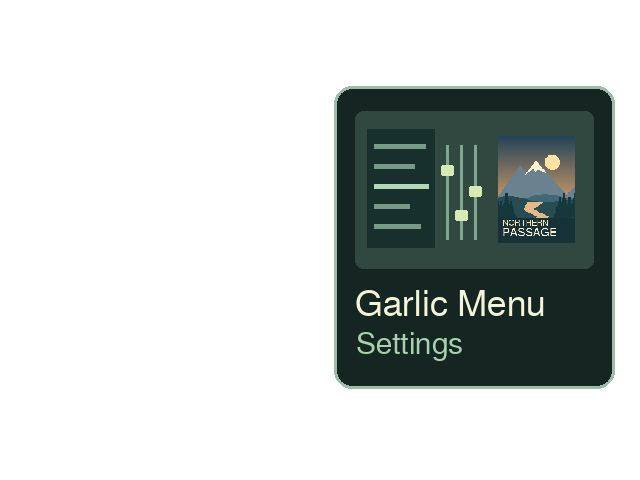
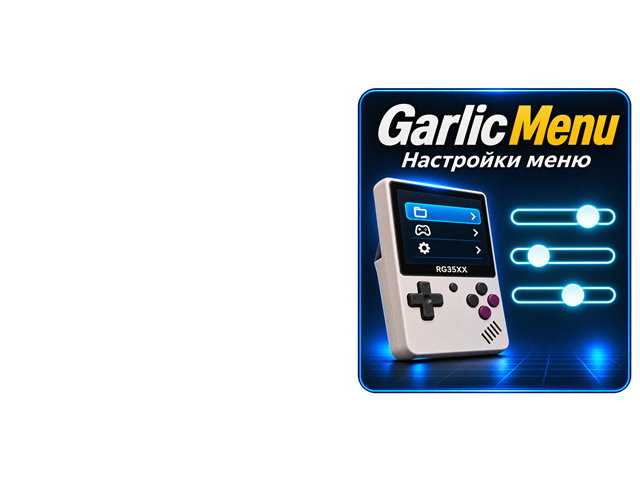
Release Garlic Menu Settings v1.0.1 with contextual controls and matching APPS artwork

Changed region(s): [[0.5, 0.1562, 1.0, 0.8438]]

diff --git a/Garlic-Menu-Settings/src/main.c b/Garlic-Menu-Settings/src/main.c
@@ -9,7 +9,8 @@
 #include <unistd.h>
 
 enum { BG=0x182321, PANEL=0x24332f, EDGE=0x4b635a, INK=0xf4f6ec,
-       MUTED=0xb2c6b8, GREEN=0xaee3a8, SELECTED=0x325548, AMBER=0xf1c584 };
+       MUTED=0xb2c6b8, DIM=0x86948c, GREEN=0xaee3a8, SELECTED=0x325548, AMBER=0xf1c584 };
+enum { ALIGN_ROW, MARGIN_ROW, WIDTH_ROW, SCROLL_ROW, COVER_ROW, SIDE_ROW, RESTORE_ROW, ROW_COUNT };
 typedef enum { INTRO, INSTALLED, EDIT, FULL, CONFIRM, RESTORED, ERROR_PAGE, REPAIR } Page;
 static SDL_Surface *screen;
 static TTF_Font *title,*font,*small;
@@ -43,7 +44,7 @@ static void wrapped(int y,const char *text) {
 }
 static void page_header(const char *text) {
     box(0,0,640,480,BG); box(0,53,640,1,EDGE);
-    label(18,10,title,INK,text); label(566,19,small,GREEN,"v1.0");
+    label(18,10,title,INK,text); label(566,19,small,GREEN,"v1.0.1");
 }
 static void button(int x,int w,const char *s,int on) {
     box(x,410,w,46,on ? GREEN : PANEL);
@@ -86,19 +87,32 @@ static void modal(Page page,int yes,const char *err) {
 static const char *align_name(Alignment a) {
     return a==LEFT ? "Слева" : a==RIGHT ? "Справа" : "Центр";
 }
+static int clipping_enabled(Settings s) {
+    return s.width>0 && s.align==LEFT;
+}
+static int can_scroll(Settings s,int cover) {
+    return clipping_enabled(s) && cover;
+}
+static int next_row(int row,int step,Settings s,int cover) {
+    int next=(row+step+ROW_COUNT)%ROW_COUNT;
+    if (next==SCROLL_ROW && !can_scroll(s,cover)) next+=step;
+    return next;
+}
 static void editor(Settings s,int cover,int right,int row,unsigned *start) {
     const char *names[]={"Выравнивание","Отступ","Макс. ширина","Прокрутка","Обложка","Положение","Восстановить из копий"};
     char margin[24],width[24],timing[96];
     snprintf(margin,sizeof margin,"%d px",s.margin);
     if (s.width) snprintf(width,sizeof width,"%d px",s.width); else strcpy(width,"Без обрезки");
-    const char *values[]={align_name(s.align),margin,width,s.scroll?"Вкл":"Выкл",cover?"Вкл":"Выкл",right?"Справа":"Слева",""};
+    int scrolling=can_scroll(s,cover);
+    const char *values[]={align_name(s.align),margin,width,scrolling && s.scroll?"Вкл":"Выкл",cover?"Вкл":"Выкл",right?"Справа":"Слева",""};
     page_header("Настройки меню");
-    for (int i=0;i<7;i++) {
+    for (int i=0;i<ROW_COUNT;i++) {
         int y=65+i*46;
+        int disabled=i==SCROLL_ROW && !scrolling;
         if (i==row) { box(12,y,290,41,SELECTED); box(12,y,3,41,GREEN); }
-        label(21,y+10,small,i==6 ? AMBER : INK,names[i]);
+        label(21,y+10,small,disabled ? DIM : i==RESTORE_ROW ? AMBER : INK,names[i]);
         int w,h;
-        if (*values[i] && !TTF_SizeUTF8(small,values[i],&w,&h)) label(292-w,y+10,small,GREEN,values[i]);
+        if (*values[i] && !TTF_SizeUTF8(small,values[i],&w,&h)) label(292-w,y+10,small,disabled ? DIM : GREEN,values[i]);
     }
     label(318,69,small,MUTED,"Предпросмотр"); box(316,97,308,232,EDGE);
     preview_draw(screen,s,cover,right,0,start);
@@ -108,23 +122,25 @@ static void editor(Settings s,int cover,int right,int row,unsigned *start) {
     label(318,367,small,MUTED,timing);
     box(0,403,640,1,EDGE);
     label(18,413,small,INK,"↑↓ Выбор     ← → Значение     L1 / R1  ±10 px");
-    label(18,446,small,GREEN,"A  Сохранить       B  Выйти       X  Сброс       Y  Превью");
+    label(18,446,small,row==RESTORE_ROW ? AMBER : GREEN,
+          row==RESTORE_ROW ? "A  Восстановить…" : "A  Сохранить");
+    label(191,446,small,GREEN,"B  Выйти       X  Сброс       Y  Превью");
 }
 static int clamp(int n,int lo,int hi) { return n<lo ? lo : n>hi ? hi : n; }
 static void adjust(Settings *s,int *cover,int *right,int row,int dir,int fast) {
-    if (fast && row!=1 && row!=2) return;
+    if (fast && row!=MARGIN_ROW && row!=WIDTH_ROW) return;
     int step=dir*(fast?10:1);
     switch (row) {
-    case 0: {
+    case ALIGN_ROW: {
         const Alignment order[]={LEFT,CENTER,RIGHT};
         int i=s->align==LEFT?0:s->align==CENTER?1:2;
         s->align=order[(i+dir+3)%3]; break;
     }
-    case 1: s->margin=clamp(s->margin+step,0,320); break;
-    case 2: s->width=clamp(s->width+step,0,640); break;
-    case 3: s->scroll=!s->scroll; break;
-    case 4: *cover=!*cover; break;
-    case 5: *right=!*right; break;
+    case MARGIN_ROW: s->margin=clamp(s->margin+step,0,320); break;
+    case WIDTH_ROW: s->width=clamp(s->width+step,0,640); break;
+    case SCROLL_ROW: if (can_scroll(*s,*cover)) s->scroll=!s->scroll; break;
+    case COVER_ROW: *cover=!*cover; break;
+    case SIDE_ROW: *right=!*right; break;
     }
 }
 static SDLKey getkey(void) {
@@ -208,7 +224,7 @@ int main(void) {
         if (k==SDLK_UNKNOWN) { SDL_Delay(page==EDIT || page==FULL ? 32 : 50); continue; }
         if (page==EDIT) {
             int dir=(k==SDLK_LEFT || k==SDLK_PAGEUP) ? -1 : 1;
-            if (k==SDLK_UP || k==SDLK_DOWN) row=(row+(k==SDLK_UP?6:1))%7;
+            if (k==SDLK_UP || k==SDLK_DOWN) row=next_row(row,k==SDLK_UP ? -1 : 1,s,cover);
             else if (k==SDLK_LEFT || k==SDLK_RIGHT || k==SDLK_PAGEUP || k==SDLK_PAGEDOWN) {
                 adjust(&s,&cover,&right,row,dir,k==SDLK_PAGEUP || k==SDLK_PAGEDOWN); start=SDL_GetTicks();
             } else if (k==SDLK_x) {
@@ -216,8 +232,12 @@ int main(void) {
                 start=SDL_GetTicks();
             } else if (k==SDLK_y) page=FULL;
             else if (k==SDLK_ESCAPE) stop=1;
-            else if (k==SDLK_RETURN && row==6) { page=CONFIRM; yes=0; }
-            else if (k==SDLK_RETURN) { if (save(&s,version)) stop=1; else page=ERROR_PAGE; }
+            else if (k==SDLK_RETURN && row==RESTORE_ROW) { page=CONFIRM; yes=0; }
+            else if (k==SDLK_RETURN) {
+                /* Cover visibility is only a preview option. */
+                if (!clipping_enabled(s)) s.scroll=0;
+                if (save(&s,version)) stop=1; else page=ERROR_PAGE;
+            }
         } else if (page==FULL) {
             if (k==SDLK_ESCAPE || k==SDLK_y) page=EDIT;
         } else if (k==SDLK_RIGHT || k==SDLK_LEFT) yes=!yes;

diff --git a/Garlic-Menu-Settings/tests/ui.py b/Garlic-Menu-Settings/tests/ui.py
@@ -8,6 +8,13 @@ p.add_argument("qemu"); p.add_argument("sysroot")
 p.add_argument("--frames",type=Path)
 a=p.parse_args()
 project=Path(__file__).resolve().parents[1]
+
+def region(path,x,y,w,h):
+    bmp=path.read_bytes()
+    offset=struct.unpack_from("<I",bmp,10)[0]
+    assert struct.unpack_from("<H",bmp,28)[0]==24
+    return b"".join(bmp[offset+((479-r)*640+x)*3:offset+((479-r)*640+x+w)*3] for r in range(y,y+h))
+
 original=(a.stock/"main").read_bytes(); config=(a.stock/"settings.json").read_bytes()
 with tempfile.TemporaryDirectory(prefix="gms-ui-") as tmp:
     tmp=Path(tmp)
@@ -17,7 +24,9 @@ with tempfile.TemporaryDirectory(prefix="gms-ui-") as tmp:
     app=tmp/"TF2"/"Roms/APPS/GarlicMenuSettings"; app.mkdir(parents=True)
     for directory in ("assets","patch"): shutil.copytree(project/directory,app/directory)
     frames=(a.frames or (tmp/"frames")).resolve()
+    cases=[]
     def run(name,keys,pages):
+        cases.append(name)
         capture=frames/name; capture.mkdir(parents=True,exist_ok=True)
         env=os.environ|{"SDL_VIDEODRIVER":"dummy","SDL_AUDIODRIVER":"dummy","GMS_KEYS":keys,
                         "GMS_FIXTURE":str(cfw),"GMS_FRAMES":str(capture)}
@@ -32,6 +41,31 @@ with tempfile.TemporaryDirectory(prefix="gms-ui-") as tmp:
     run("install","daab",[0,0,1,2])
     assert json.loads(cfg.read_bytes())["text-max-width"]==313
     baseline=cfg.read_bytes()
+    # A v1.0 config can specify width 0 and still have scroll=true.
+    legacy=json.loads(baseline)
+    legacy["text-max-width"]=0
+    cfg.write_text(json.dumps(legacy))
+    original_legacy=cfg.read_bytes()
+    zero=run("width-zero-cancel","ssswb",[2]*5)
+    assert cfg.read_bytes()==original_legacy
+    def focused(frame,row):
+        return region(frame,12,70+46*row,1,1)!=region(frame,10,70+46*row,1,1)
+    assert focused(zero[2],2) and focused(zero[3],4) and focused(zero[4],2)
+    run("width-zero-save","a",[2])
+    assert json.loads(cfg.read_bytes())["text-scroll"] is False
+    run("reenable-scroll","ssdsda",[2]*6)
+    current=json.loads(cfg.read_bytes())
+    assert current["text-max-width"]==1 and current["text-scroll"] is True
+    run("width-to-zero","ssqa",[2]*4)
+    assert json.loads(cfg.read_bytes())["text-scroll"] is False
+    run("width-reset","xa",[2,2]); assert cfg.read_bytes()==baseline
+    hidden=run("cover-only","ssssda",[2]*6)
+    assert cfg.read_bytes()==baseline
+    assert region(hidden[5],18,210,278,24)==region(zero[0],18,210,278,24)
+    alignment=run("center-right","ddb",[2]*3)
+    for f in alignment[1:]:
+        assert region(f,18,210,278,24)==region(zero[0],18,210,278,24)
+    assert region(alignment[0],18,210,278,24)!=region(zero[0],18,210,278,24)
     run("shoulders","shla",[2]*4)
     assert cfg.read_bytes()==baseline
     run("scroll-off","sssda",[2]*5)
@@ -44,14 +78,20 @@ with tempfile.TemporaryDirectory(prefix="gms-ui-") as tmp:
     assert frames2[7].read_bytes()!=frames1[1].read_bytes() # Cover on left
     run("save","dslsqsa",[2]*7)
     changed=json.loads(cfg.read_bytes())
+    assert changed["text-scroll"] is False
     assert (changed["text-alignment"],changed["text-margin"],changed["text-max-width"])==("center",26,312)
     run("cancel-reset","xb",[2,2]); assert json.loads(cfg.read_bytes())==changed
     run("reset","xa",[2,2]); assert cfg.read_bytes()==baseline
-    run("cancel-restore","ssssssab b".replace(" ",""),[2]*7+[4,2])
+    hint=run("cancel-restore","ssssssab b".replace(" ",""),[2]*7+[4,2])
+    assert region(hint[0],18,446,170,28)!=region(hint[6],18,446,170,28)
+    assert region(hint[0],191,446,449,28)==region(hint[6],191,446,449,28)
+    # SDL writes BGR. Confirm the restore action is amber.
+    ink=region(hint[6],18,446,170,28)
+    assert any(r>220 and g>155 and b<155 and r>g for b,g,r in zip(ink[::3],ink[1::3],ink[2::3]))
     assert main.read_bytes()!=original
     run("restore","ssssssadaa",[2]*7+[4,4,5])
     assert main.read_bytes()==original and cfg.read_bytes()==config
     assert not (cfw/"main.bak").exists() and not (cfw/"skin/settings.json.bak").exists()
     run("first-again","b",[0])
-    print("13 ARM SDL UI scenarios: 640x480, install OK, A/B/X/Y, L1/R1, covers, confirm/cancel and next launch passed")
+    print(f"{len(cases)} ARM SDL UI scenarios passed, including disabled scroll and the contextual restore hint")
 

diff --git a/Garlic-Menu-Settings/tests/package_smoke.py b/Garlic-Menu-Settings/tests/package_smoke.py
@@ -3,6 +3,7 @@ import argparse,json,os,subprocess,tempfile,zipfile
 from pathlib import Path
 parser=argparse.ArgumentParser()
 for key in ("archive","stock","sdk","qemu","pad"): parser.add_argument(key,type=Path)
+parser.add_argument("--upgrade-from",type=Path,help="install the patch with an earlier release ZIP first")
 a=parser.parse_args()
 sdk=a.sdk.resolve()
 sysroot=sdk/"arm-miyoo-linux-uclibcgnueabi/sysroot"
@@ -17,10 +18,13 @@ with tempfile.TemporaryDirectory(prefix="garlic-zip-") as tmp:
     m=cfw/"main"; j=cfw/"skin/settings.json"
     m.write_bytes(original); m.chmod(0o755); j.write_bytes(settings)
     card=tmp/"TF2"; app=card/"Roms/APPS/GarlicMenuSettings"
-    with zipfile.ZipFile(a.archive) as z:
-        assert z.testzip() is None
-        z.extractall(card)
-    exe=app/"garlic-menu-settings"; exe.chmod(0o755)
+    exe=app/"garlic-menu-settings"
+    def unpack(archive):
+        with zipfile.ZipFile(archive) as z:
+            assert z.testzip() is None
+            z.extractall(card)
+        exe.chmod(0o755)
+    unpack(a.upgrade_from or a.archive)
     def run(keys):
         result=subprocess.run([str(a.qemu),"-L",str(root),"-E","LD_PRELOAD="+str(a.pad.resolve()),str(exe)],
             cwd=app,env=os.environ|{"GMS_PAD":keys,"SDL_VIDEODRIVER":"dummy","SDL_AUDIODRIVER":"dummy"},
@@ -29,6 +33,8 @@ with tempfile.TemporaryDirectory(prefix="garlic-zip-") as tmp:
     run("b"); assert m.read_bytes()==original and j.read_bytes()==settings
     run("daab"); assert m.read_bytes()==(app/"patch/main").read_bytes() and json.loads(j.read_bytes())["text-max-width"]==313
     assert (cfw/"main.bak").read_bytes()==original and (cfw/"skin/settings.json.bak").read_bytes()==settings
+    if a.upgrade_from:
+        unpack(a.archive)
     run("sllyba"); assert json.loads(j.read_bytes())["text-margin"]==36
     run("ssqb"); assert json.loads(j.read_bytes())["text-max-width"]==313
     run("ssssssadaa"); assert m.read_bytes()==original and j.read_bytes()==settings

diff --git a/Garlic-Menu-Settings/tests/art.py b/Garlic-Menu-Settings/tests/art.py
@@ -1,4 +1,4 @@
-"""Rebuild the two original pixel illustrations with Pillow and the bundled font."""
+"""Rebuild the pixel-art preview cover with Pillow and the bundled font."""
 from pathlib import Path
 from math import sin
 from PIL import Image, ImageDraw, ImageFont
@@ -35,19 +35,3 @@ d.rectangle((0,222,207,287),fill="#163237")
 d.text((12,223),"NORTHERN",font=font(22),fill="#fae7bb")
 d.text((12,245),"PASSAGE",font=font(31),fill="#fff2d9")
 im.save(assets/"preview.png")
-icon=Image.new("RGBA",(640,480),(0,0,0,0))
-d=ImageDraw.Draw(icon)
-d.rounded_rectangle((334,86,614,388),radius=18,fill="#142522",outline="#9dbcaa",width=3)
-d.rounded_rectangle((355,111,593,268),radius=8,fill="#30483f")
-d.rectangle((367,129,434,247),fill="#17302c")
-for y,w in [(144,51),(164,40),(184,54),(204,35),(224,46)]:
-    d.rectangle((374,y,374+w,y+4),fill="#b1d6b8" if y==184 else "#779988")
-icon.paste(im.resize((77,107),Image.Resampling.NEAREST),(498,136))
-for x in (446,460,474):
-    d.rectangle((x,145,x+2,239),fill="#81a68e")
-for x,y in [(446,165),(460,210),(474,186)]:
-    d.rounded_rectangle((x-5,y,x+7,y+10),radius=2,fill="#d6ebb3")
-d.text((355,287),"Garlic Menu",font=font(36),fill="#f4f4d9")
-d.text((356,330),"Settings",font=font(30),fill="#a8d2ae")
-icon.save(project/"Garlic Menu Settings.png")
-

diff --git a/Garlic-Menu-Settings/package.py b/Garlic-Menu-Settings/package.py
@@ -3,7 +3,7 @@ import argparse,hashlib,stat,zipfile
 from pathlib import Path
 
 project=Path(__file__).resolve().parent
-name="GarlicMenuSettings-1.0"
+name="GarlicMenuSettings-1.0.1"
 parser=argparse.ArgumentParser()
 parser.add_argument("out",type=Path)
 parser.add_argument("--stock",type=Path,default=project/"tests/stock")

diff --git a/Garlic-Menu-Settings/README.md b/Garlic-Menu-Settings/README.md
@@ -1,6 +1,8 @@
-# Garlic Menu Settings v1.0
+# Garlic Menu Settings v1.0.1
 
 Редактор отображения списка игр на оригинальной RG35XX с GarlicOS 1.4.9. Инструкция по переносу на карту и управлению находится в файле «Установка.txt».
+
+Изменения v1.0.1 относительно [v1.0](https://github.com/alex-13021991/Anbernic-RG35XX/releases/tag/garlic-menu-settings-v1.0) включают неактивную строку прокрутки без обрезки, янтарную подсказку «A Восстановить…» при выборе восстановления и иконку APPS в стиле System Info RU. Для обновления скопируйте папку `Roms` из нового ZIP поверх приложения. Ранее сделанные резервные копии подходят к обеим версиям.
 
 ## Сборка в Ubuntu 24.04
 
@@ -39,7 +41,7 @@ python3 package.py ./dist --stock tests/stock
 
 ## Воспроизведение тестов
 
-Файловые тесты создают временные каталоги TF1 и TF2. Для эталонного рендера нужен python3-unicorn, для запуска ARM — qemu-arm или qemu-arm-static. Pillow нужен только для повторной генерации рисунков. Тестовые точки отказа и управление тестовой папкой отсутствуют в релизном бинарнике.
+Файловые тесты создают временные каталоги TF1 и TF2. Для эталонного рендера нужен python3-unicorn, для запуска ARM — qemu-arm или qemu-arm-static. Pillow нужен только для повторной генерации тестовой обложки игры. Тестовые точки отказа и управление тестовой папкой отсутствуют в релизном бинарнике.
 
 ~~~sh
 sdk="$HOME/rg35xx-sdk/miyoo-gcc-7.3.0"
@@ -59,8 +61,8 @@ ln -s "$sdk/arm-miyoo-linux-uclibcgnueabi/sysroot/lib" "$runtime/lib"
 ln -s "$sdk/arm-miyoo-linux-uclibcgnueabi/sysroot/usr/lib" "$runtime/usr/lib"
 python3 tests/storage.py tests/stock --qemu "$qemu" --sysroot "$runtime"
 python3 tests/ui.py tests/stock "$qemu" "$runtime"
-python3 tests/package_smoke.py dist/GarlicMenuSettings-1.0-GarlicOS-1.4.9.zip tests/stock "$sdk" "$qemu" build/test-pad.so
+python3 tests/package_smoke.py dist/GarlicMenuSettings-1.0.1-GarlicOS-1.4.9.zip tests/stock "$sdk" "$qemu" build/test-pad.so
 ~~~
 
-Проверки охватывают стоковый и пользовательский JSON, повторную установку, ошибочный main, ручной патч, прежние и повреждённые .bak, постороннее редактирование JSON, одновременный запуск, запрет записи, неполные резервные копии, повторное прерывание отката и идентичность восстановленных байтов. Для установки, сохранения и восстановления моделируются соответственно 18, 10 и 17 точек прерывания, а также ошибки операций записи в этих точках. Геометрия и смещения проверяются в 216 сочетаниях. Отдельный набор проверяет 13 сценариев SDL и кнопок. При проверке ZIP эмулятор запускает упакованный релизный ELF со штатным путём TF1 и тестовым источником нажатий. Физическая консоль и настоящая SD в этих проверках не используются.
+Проверки охватывают стоковый и пользовательский JSON, повторную установку, ошибочный main, ручной патч, прежние и повреждённые .bak, постороннее редактирование JSON, одновременный запуск, запрет записи, неполные резервные копии, повторное прерывание отката и идентичность восстановленных байтов. Для установки, сохранения и восстановления моделируются соответственно 18, 10 и 17 точек прерывания, а также ошибки операций записи в этих точках. Геометрия и смещения проверяются в 216 сочетаниях. Отдельный набор проверяет 20 сценариев SDL и кнопок. При проверке ZIP эмулятор запускает упакованный релизный ELF со штатным путём TF1 и тестовым источником нажатий. Физическая консоль и настоящая SD в этих проверках не используются.
 

diff --git a/README.md b/README.md
@@ -4,6 +4,7 @@
 
 | Программа | Назначение | Релиз |
 | --- | --- | --- |
+| [Garlic Menu Settings](Garlic-Menu-Settings/) | Настройка выравнивания, обрезки и прокрутки названий игр с живым предпросмотром. | [1.0.1](https://github.com/alex-13021991/Anbernic-RG35XX/releases/tag/garlic-menu-settings-v1.0.1) |
 | [System Info RU](System-Info-RU/) | Системная информация и статистика коллекции на обеих картах. | [1.1.1](https://github.com/alex-13021991/Anbernic-RG35XX/releases/tag/system-info-ru-v1.1.1) |
 | [USB Manager](USB-Manager/) | Настраивает MTP, ADB и USB-ввод. | [0.1.5](https://github.com/alex-13021991/Anbernic-RG35XX/releases/tag/usb-manager-v0.1.5) |
 | [Screenshot Manager](Screenshot-Manager/) | Включает и выключает службу съёмки экрана по L2 + R2. | [0.1.0](https://github.com/alex-13021991/Anbernic-RG35XX/releases/tag/screenshot-manager-v0.1.0) |
